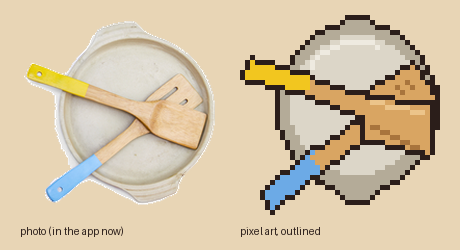
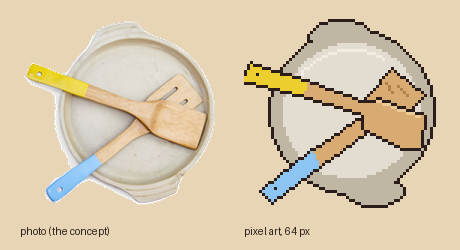
No-photo pixel art redrawn at 64 px from the photo's measured layout (pan with lugs, turner under spatula)

Changed region(s): [[0.5174, 0.056, 0.9739, 0.868], [0.5174, 0.896, 0.7, 0.952], [0.1217, 0.896, 0.2739, 0.952]]

diff --git a/design/pixel-art/no_photo_outlined.py b/design/pixel-art/no_photo_outlined.py
@@ -1,20 +1,45 @@
-"""The no-photo picture as hand-placed pixel art, traced from the CC0 photo's layout; every part outlined."""
+"""The no-photo picture as pixel art, recreated from the CC0 photo ("Wooden Spatula", Nordwood Themes, StockSnap).
+
+Every shape is placed at the position measured on the photo (960x640 pixels): a round stoneware pan with two lugs,
+a slotted turner with a blue handle underneath, a solid spatula with a yellow handle on top. Flat colours, and every
+border drawn once, one pixel wide (on the lower part's side), so outlines never double up.
+Run: python -I design/pixel-art/no_photo_outlined.py design/pixel-art/previews
+"""
 import math
 import sys
 
 from PIL import Image, ImageDraw
 
 out = sys.argv[1]
-N = 40
-def P(x, y):  # photo pixel -> art pixel (crop 430..930 x 120..620)
-    return ((x - 430) * N / 500, (y - 120) * N / 500)
+N = 64                      # shown at 128 px on the card: exactly 2x
+X0, Y0, SIDE = 438, 122, 492  # the square of the photo that holds the picture
+
+
+def P(x, y):
+    """A photo pixel to an art pixel."""
+    return ((x - X0) * N / SIDE, (y - Y0) * N / SIDE)
+
+
 INK = (0x2B, 0x1E, 0x1A, 255)
-PAN, PAN_D, PAN_L = (0xDC, 0xD6, 0xC8, 255), (0xB4, 0xAB, 0x98, 255), (0xEE, 0xEA, 0xE0, 255)
-WOOD, WOOD_D, WOOD_L = (0xD9, 0xA5, 0x62, 255), (0xA8, 0x74, 0x3C, 255), (0xEC, 0xC4, 0x8A, 255)
-YEL, BLUE = (0xF2, 0xC6, 0x1F, 255), (0x6C, 0xAA, 0xE6, 255)
+PAN, PAN_D, PAN_L = (0xE2, 0xDD, 0xD0, 255), (0xBF, 0xB6, 0xA4, 255), (0xF0, 0xEC, 0xE3, 255)
+WOOD, WOOD_D, WOOD_L = (0xD8, 0xAB, 0x72, 255), (0xB3, 0x82, 0x4C, 255), (0xEC, 0xCB, 0x98, 255)
+YEL, BLUE = (0xEC, 0xCE, 0x2E, 255), (0x8C, 0xC4, 0xF2, 255)
+
 
 def layer():
     return Image.new("RGBA", (N, N), (0, 0, 0, 0))
+
+
+def bar(d, a, b, w, fill):
+    """A straight strip w photo pixels wide from a to b."""
+    (x1, y1), (x2, y2) = P(*a), P(*b)
+    dx, dy = x2 - x1, y2 - y1
+    L = math.hypot(dx, dy)
+    w = w * N / SIDE
+    nx, ny = -dy / L * w / 2, dx / L * w / 2
+    d.polygon([(x1 + nx, y1 + ny), (x2 + nx, y2 + ny), (x2 - nx, y2 - ny), (x1 - nx, y1 - ny)], fill=fill)
+
+
 def ink(parts):
     """Stack the parts (bottom first) and draw every border once, one pixel wide: around the whole picture just
     outside it, and between two parts on the lower part's side, so two outlines never sit side by side."""
@@ -28,43 +53,55 @@ def ink(parts):
                     owner[y][x] = k
         art.alpha_composite(img)
     px = art.load()
+
     def near(x, y):
-        return [owner[y + dy][x + dx] for dx, dy in ((1, 0), (-1, 0), (0, 1), (0, -1)) if 0 <= x + dx < N and 0 <= y + dy < N]
+        return [owner[y + dy][x + dx] for dx, dy in ((1, 0), (-1, 0), (0, 1), (0, -1))
+                if 0 <= x + dx < N and 0 <= y + dy < N]
     for y in range(N):
         for x in range(N):
             o = owner[y][x]
             if (o == 0 and any(near(x, y))) or (o and any(n > o for n in near(x, y))):
                 px[x, y] = INK
     return art
-def bar(d, a, b, w, fill):
-    (x1, y1), (x2, y2) = P(*a), P(*b); dx, dy = x2 - x1, y2 - y1; L = math.hypot(dx, dy); nx, ny = -dy / L * w / 2, dx / L * w / 2
-    d.polygon([(x1 + nx, y1 + ny), (x2 + nx, y2 + ny), (x2 - nx, y2 - ny), (x1 - nx, y1 - ny)], fill=fill)
 
-pan = layer(); d = ImageDraw.Draw(pan)
-d.ellipse([*P(615, 140), *P(830, 575)], fill=PAN_D)           # lugs (top-left, bottom-right) behind the rim
-d.ellipse([*P(530, 155), *P(915, 545)], fill=PAN_D)           # rim
-d.ellipse([*P(557, 182), *P(888, 518)], fill=PAN)             # floor
-d.arc([*P(575, 185), *P(870, 515)], 200, 290, fill=PAN_L)      # light on the far wall
 
-def tool(handle_from, handle_to, shaft_to, head, color):
-    t = layer(); d = ImageDraw.Draw(t)
-    bar(d, handle_from, handle_to, 3.2, color)
-    bar(d, handle_to, shaft_to, 2.6, WOOD)
-    d.polygon([P(*p) for p in head], fill=WOOD)
-    return t
-blue = tool((505, 580), (625, 485), (760, 390), [(735, 330), (860, 250), (905, 320), (785, 405)], BLUE)
-bd = ImageDraw.Draw(blue)
-for x, y in ((823, 300), (850, 285)):                            # the turner's two slots, one dark pixel each
-    bd.point([P(x, y), P(x + 12, y + 12)], fill=WOOD_D)
-yel = tool((452, 262), (600, 300), (760, 360), [(735, 330), (900, 355), (895, 460), (745, 420)], YEL)
-yd = ImageDraw.Draw(yel)
-yd.line([P(760, 405), P(875, 445)], fill=WOOD_D)                  # shade under the paddle
-yd.line([P(760, 340), P(880, 368)], fill=WOOD_L)                  # light on its top edge
+# The pan: a circle (centre 715,362, radius 202 on the photo), a lug at the top and one at the bottom right
+pan = layer()
+d = ImageDraw.Draw(pan)
+d.ellipse([*P(612, 136), *P(766, 200)], fill=PAN_D)        # top lug
+d.ellipse([*P(700, 530), *P(838, 592)], fill=PAN_D)        # bottom-right lug
+d.ellipse([*P(513, 160), *P(917, 564)], fill=PAN_D)        # rim
+d.ellipse([*P(540, 187), *P(890, 537)], fill=PAN)          # floor
+d.arc([*P(552, 199), *P(878, 525)], 200, 300, fill=PAN_L)  # light on the far wall
+d.arc([*P(540, 187), *P(890, 537)], 20, 110, fill=PAN_D)   # shade on the near wall
+
+# The slotted turner (underneath): blue handle from the bottom left, wood shaft, head at the top right
+blue = layer()
+d = ImageDraw.Draw(blue)
+bar(d, (501, 575), (625, 480), 36, BLUE)
+bar(d, (625, 480), (760, 385), 30, WOOD)
+d.polygon([P(732, 356), P(818, 258), P(896, 320), P(812, 412)], fill=WOOD)
+for x, y in ((800, 290), (832, 296)):                      # its two slots, along the tool
+    d.line([P(x, y), P(x + 22, y + 22)], fill=WOOD_D, width=1)
+d.point([P(520, 560)], fill=INK)                           # the hanging hole
+
+# The solid spatula (on top): yellow handle from the top left, wood shaft, paddle at the right
+yel = layer()
+d = ImageDraw.Draw(yel)
+bar(d, (450, 260), (598, 302), 36, YEL)
+bar(d, (598, 302), (748, 352), 30, WOOD)
+d.polygon([P(742, 340), P(780, 330), P(892, 368), P(884, 452), P(842, 450), P(752, 402)], fill=WOOD)
+d.line([P(780, 336), P(886, 372)], fill=WOOD_L)            # light on its top edge
+d.point([P(472, 268)], fill=INK)                           # the hanging hole
 
 art = ink([pan, blue, yel])
 art.save(f"{out}/no_photo_pixel_outlined.png")
-sheet = Image.new("RGBA", (460, 250), (0xE8, 0xD5, 0xB5, 255)); dd = ImageDraw.Draw(sheet)
+
+sheet = Image.new("RGBA", (460, 250), (0xE8, 0xD5, 0xB5, 255))
+dd = ImageDraw.Draw(sheet)
 photo = Image.open(f"{out}/no_photo_photo.png").convert("RGBA").resize((200, 200), Image.LANCZOS)
-sheet.alpha_composite(photo, (20, 15)); sheet.alpha_composite(art.resize((200, 200), Image.NEAREST), (240, 15))
-dd.text((20, 225), "photo (in the app now)", fill=INK); dd.text((240, 225), "pixel art, outlined", fill=INK)
+sheet.alpha_composite(photo, (20, 15))
+sheet.alpha_composite(art.resize((192, 192), Image.NEAREST), (244, 19))
+dd.text((20, 225), "photo (the concept)", fill=INK)
+dd.text((244, 225), "pixel art, 64 px", fill=INK)
 sheet.convert("RGB").save(f"{out}/no_photo_pixel_compare.png")
